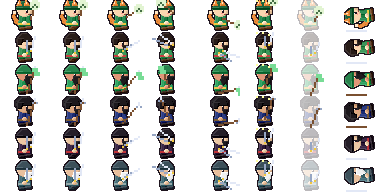
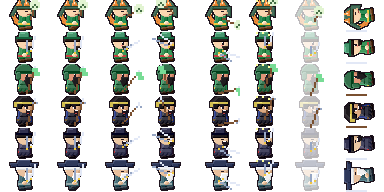
v0.45.0: 人物造型重畫（鎧甲、頭盔、文官冠巾、誇張表情）
Claude-Session: https://claude.ai/code/session_01JiiwSTohZdt9gnXnKPj9ao

diff --git a/src/version.js b/src/version.js
@@ -1,3 +1,3 @@
 // 遊戲版本號。發佈新版時，這裡與 package.json 的 version 必須一起改成相同的值。
-window.GAME_VERSION = '0.44.0';
+window.GAME_VERSION = '0.45.0';
 window.GAME_REPO = 'defance16042-lgtm/chuanyue-sanguo';

diff --git a/docs/HANDOFF.md b/docs/HANDOFF.md
@@ -153,3 +153,6 @@
 
 ## v0.44.0 隊伍 8 人
 - Game.MAX_PARTY=8；BattleLogic.newBattle 只取前 5 位活著的出戰（slice(0,5)）；battle_scene finish() 後備隊員拿一半經驗。FormationScene 8 列（第 6 位起標「後備」）、ItemScene 目標列表縮距、HallScene 標後備。
+
+## v0.45.0 人物造型
+- tools/char_styles.py：每個角色的造型表（armor 鎧甲、helm 盔、cap 文官冠巾、face calm/fierce/grin/wise、wide 加寬、scar、band 頭帶）；build_char_hd.py person_hd 依此繪製；戰鬥敵方小人用 auto() 由顏色自動套鎧甲與盔。重新產圖：python3 tools/build_char_hd.py（16px 備援圖未改）。
